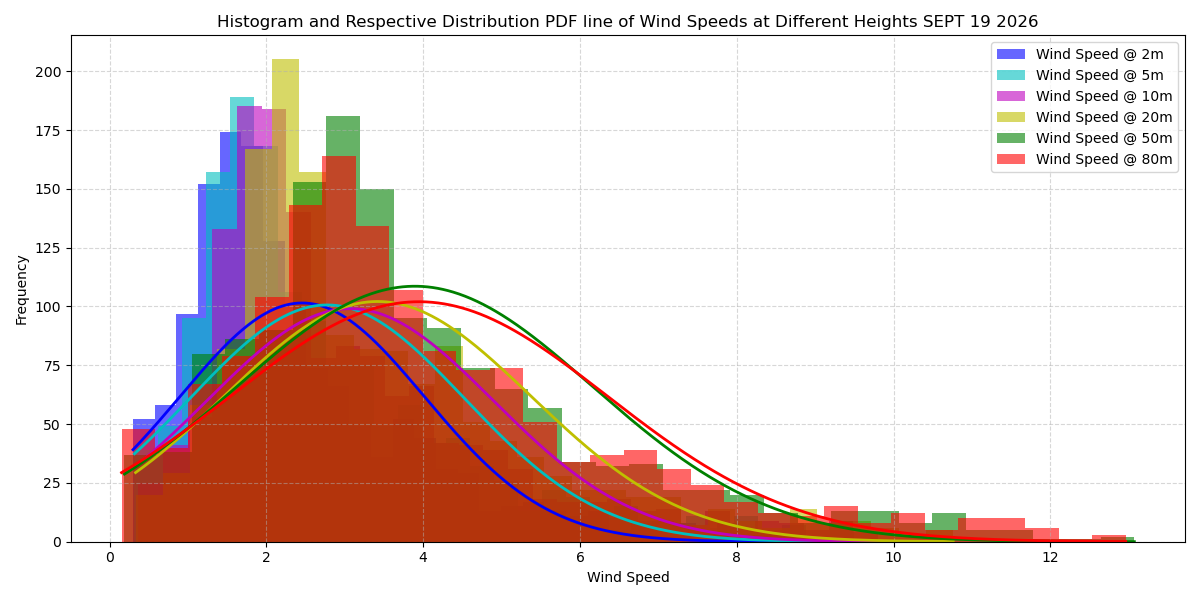
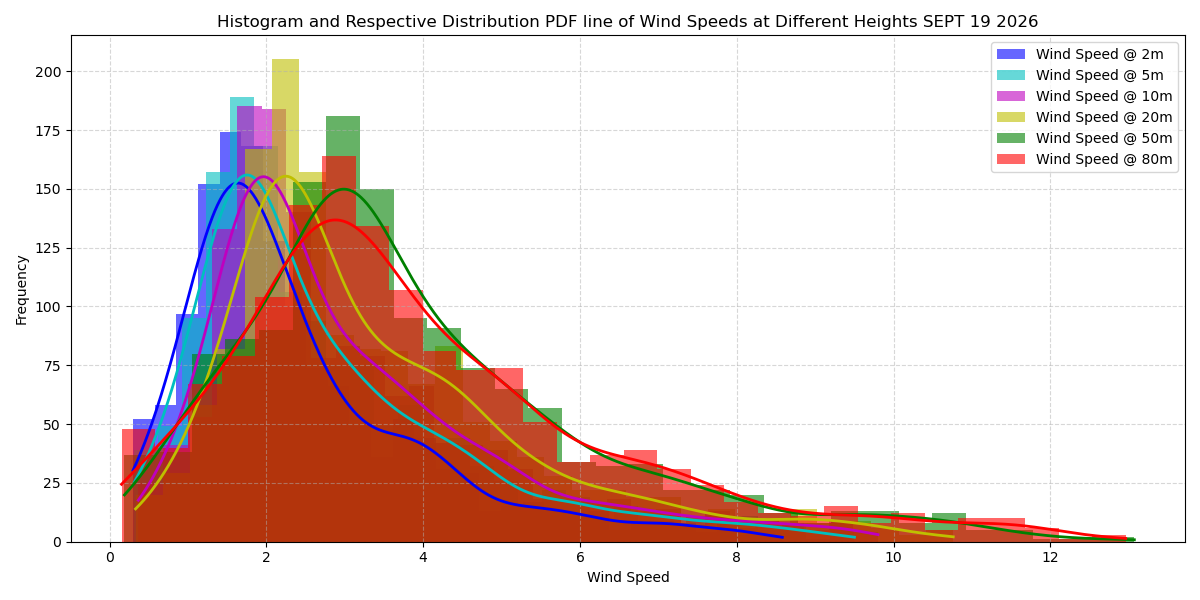
Creation of the code and plots of the fixed hisodram and pdf line plots

Changed region(s): [[0.0925, 0.27, 0.9558, 0.93], [0.4933, 0.63, 0.5242, 0.69], [0.4625, 0.6, 0.4933, 0.63]]

diff --git a/TK2_M2_SEPT19_pull_Demo.py b/TK2_M2_SEPT19_pull_Demo.py
@@ -460,7 +460,7 @@ post_TI80 = ds2['Turbulence Intensity @ 80m']
 ####################################################################################
 #Start the devlopment of pdf for the features of the atmosphere and the wind
 
-#Create a histogram of the frequency of the wind speeds at different heights
+# Create a histogram of the frequency of the wind speeds at different heights
 # plt.figure(figsize=(12, 6))
 # plt.hist(wind_sp2, bins=30, color='b', alpha=0.6, label='Wind Speed @ 2m')
 # plt.hist(wind_sp5, bins=30, color='c', alpha=0.6, label='Wind Speed @ 5m')
@@ -472,13 +472,13 @@ post_TI80 = ds2['Turbulence Intensity @ 80m']
 # #distribution pdf line for the wind speeds
 # for wind_sp, color in zip([wind_sp2, wind_sp5, wind_sp10, wind_sp20, wind_sp50, wind_sp80], ['b', 'c', 'm', 'y', 'g', 'r']):
 #     wind_sp = np.asarray(wind_sp).ravel()  # convert xarray DataArray to a plain 1D numpy array
-#     sp_mean = np.nanmean(wind_sp)
-#     sp_std = np.nanstd(wind_sp)
-#     sp_dist = norm(sp_mean, sp_std)
+#     wind_sp = wind_sp[~np.isnan(wind_sp)]  # remove NaN values
 #     sp_min = np.nanmin(wind_sp)
 #     sp_max = np.nanmax(wind_sp)
+#     #KDE follows the distribution of the wind speeds
+#     wind_sp_kde = gaussian_kde(wind_sp)
 #     x = np.linspace(sp_min, sp_max, 1000)
-#     plt.plot(x, sp_dist.pdf(x) * len(wind_sp) * (sp_max - sp_min) / 30, c=color, lw=2)
+#     plt.plot(x, wind_sp_kde(x) * len(wind_sp) * (sp_max - sp_min) / 30, c=color, lw=2)
 
 
 # plt.xlabel('Wind Speed')
@@ -491,32 +491,34 @@ post_TI80 = ds2['Turbulence Intensity @ 80m']
 
 ########################################################################
 #historogram and PDF line for wind direction
-# plt.figure(figsize=(12, 6))
-# plt.hist(wind_dir2, bins=15, color='b', alpha=0.6, label='Wind Direction @ 2m')
-# plt.hist(wind_dir5, bins=15, color='c', alpha=0.6, label='Wind Direction @ 5m')
-# plt.hist(wind_dir10, bins=15, color='m', alpha=0.6, label='Wind Direction @ 10m')
-# plt.hist(wind_dir20, bins=15, color='y', alpha=0.6, label='Wind Direction @ 20m')
-# plt.hist(wind_dir50, bins=15, color='g', alpha=0.6, label='Wind Direction @ 50m')
-# plt.hist(wind_dir80, bins=15, color='r', alpha=0.6, label='Wind Direction @ 80m')
+plt.figure(figsize=(12, 6))
+plt.hist(wind_dir2, bins=15, color='b', alpha=0.6, label='Wind Direction @ 2m')
+plt.hist(wind_dir5, bins=15, color='c', alpha=0.6, label='Wind Direction @ 5m')
+plt.hist(wind_dir10, bins=15, color='m', alpha=0.6, label='Wind Direction @ 10m')
+plt.hist(wind_dir20, bins=15, color='y', alpha=0.6, label='Wind Direction @ 20m')
+plt.hist(wind_dir50, bins=15, color='g', alpha=0.6, label='Wind Direction @ 50m')
+plt.hist(wind_dir80, bins=15, color='r', alpha=0.6, label='Wind Direction @ 80m')
 
-# #distribution pdf line for the wind directions
-# for wind_dir, color in zip([wind_dir2, wind_dir5, wind_dir10, wind_dir20, wind_dir50, wind_dir80], ['b', 'c', 'm', 'y', 'g', 'r']):
-#     wind_dir = np.asarray(wind_dir).ravel()  # convert xarray DataArray to a plain 1D numpy array
-#     dir_mean = np.nanmean(wind_dir)
-#     dir_std = np.nanstd(wind_dir)
-#     dir_dist = norm(dir_mean, dir_std)
-#     dir_min = np.nanmin(wind_dir)
-#     dir_max = np.nanmax(wind_dir)
-#     x = np.linspace(dir_min, dir_max, 1000)
-#     plt.plot(x, dir_dist.pdf(x) * len(wind_dir) * (dir_max - dir_min) / 15, c=color, lw=2)
+#distribution pdf line for the wind directions
+for wind_dir, color in zip([wind_dir2, wind_dir5, wind_dir10, wind_dir20, wind_dir50, wind_dir80], ['b', 'c', 'm', 'y', 'g', 'r']):
+    wind_dir = np.asarray(wind_dir).ravel()  # convert xarray DataArray to a plain 1D numpy array
+    wind_dir = wind_dir[~np.isnan(wind_dir)]  # remove NaN values
+    #dir_mean = np.nanmean(wind_dir)
+    #dir_std = np.nanstd(wind_dir)
+    #dir_dist = norm(dir_mean, dir_std)
+    dir_kde = gaussian_kde(wind_dir)
+    dir_min = np.nanmin(wind_dir)
+    dir_max = np.nanmax(wind_dir)
+    x = np.linspace(dir_min, dir_max, 1000)
+    plt.plot(x, dir_kde(x) * len(wind_dir) * (dir_max - dir_min) / 15, c=color, lw=2)
 
-# plt.xlabel('Wind Direction')
-# plt.ylabel('Frequency')
-# plt.title('Histogram and Respective Distribution PDF line of Wind Directions at Different Heights SEPT 19 2026')
-# plt.grid(True, linestyle='--', alpha=0.5)
-# plt.tight_layout()
-# plt.legend(fontsize=10)
-# plt.show()
+plt.xlabel('Wind Direction')
+plt.ylabel('Frequency')
+plt.title('Histogram and Respective Distribution PDF line of Wind Directions at Different Heights SEPT 19 2026')
+plt.grid(True, linestyle='--', alpha=0.5)
+plt.tight_layout()
+plt.legend(fontsize=10)
+plt.show()
 
 ##########################################################################################
 #histogram and PDF line for temperature
@@ -527,13 +529,13 @@ post_TI80 = ds2['Turbulence Intensity @ 80m']
 
 # for temp, color in zip([temp2, temp50, temp80], ['b', 'g', 'r']):
 #     temp = np.asarray(temp).ravel()  # convert xarray DataArray to a plain 1D numpy array
-#     temp_mean = np.nanmean(temp)
-#     temp_std = np.nanstd(temp)
-#     temp_dist = norm(temp_mean, temp_std)
+#     temp = temp[~np.isnan(temp)]
 #     temp_min = np.nanmin(temp)
 #     temp_max = np.nanmax(temp)
+#     # KDE follows the actual (possibly skewed/multimodal) shape better than a Gaussian fit
+#     temp_kde = gaussian_kde(temp)
 #     x = np.linspace(temp_min, temp_max, 1000)
-#     plt.plot(x, temp_dist.pdf(x) * len(temp) * (temp_max - temp_min) / 15, c=color, lw=2)
+#     plt.plot(x, temp_kde(x) * len(temp) * (temp_max - temp_min) / 15, c=color, lw=2)
 
 # plt.xlabel('Temperature')
 # plt.ylabel('Frequency')
@@ -649,21 +651,21 @@ corr_matrix_wind = np.corrcoef(wind_speed_dir_data)
 # plt.show()
 
 #try to make a covaraince  confidence ellipe plot of the wind speed and temperature at 80m
-fig, ax = plt.subplots(figsize=(6, 6))
-cov_matrix = np.cov(np.array([wind_sp80, temp80]))
-eigvals, eigvecs = np.linalg.eigh(cov_matrix)
-order = eigvals.argsort()[::-1]
-eigvals, eigvecs = eigvals[order], eigvecs[:, order]
-angle = np.degrees(np.arctan2(*eigvecs[:, 0][::-1]))
-width, height = 2 * np.sqrt(eigvals)
-ellipse = Ellipse(xy=(np.mean(wind_sp80), np.mean(temp80)), width=width, height=height, angle=angle, edgecolor='r', fc='None', lw=2)
-ax.add_patch(ellipse)
-ax.scatter(wind_sp80, temp80, s=10)
-ax.set_xlabel('Wind Speed @ 80m')
-ax.set_ylabel('Temperature @ 80m')
-ax.set_title('Covariance Confidence Ellipse of Wind Speed and Temperature @ 80m SEPT 19 2026')
-plt.grid(True, linestyle='--', alpha=0.5)
-plt.tight_layout()
-plt.show()
+# fig, ax = plt.subplots(figsize=(6, 6))
+# cov_matrix = np.cov(np.array([wind_sp80, temp80]))
+# eigvals, eigvecs = np.linalg.eigh(cov_matrix)
+# order = eigvals.argsort()[::-1]
+# eigvals, eigvecs = eigvals[order], eigvecs[:, order]
+# angle = np.degrees(np.arctan2(*eigvecs[:, 0][::-1]))
+# width, height = 2 * np.sqrt(eigvals)
+# ellipse = Ellipse(xy=(np.mean(wind_sp80), np.mean(temp80)), width=width, height=height, angle=angle, edgecolor='r', fc='None', lw=2)
+# ax.add_patch(ellipse)
+# ax.scatter(wind_sp80, temp80, s=10)
+# ax.set_xlabel('Wind Speed @ 80m')
+# ax.set_ylabel('Temperature @ 80m')
+# ax.set_title('Covariance Confidence Ellipse of Wind Speed and Temperature @ 80m SEPT 19 2026')
+# plt.grid(True, linestyle='--', alpha=0.5)
+# plt.tight_layout()
+# plt.show()
 
 ######################
